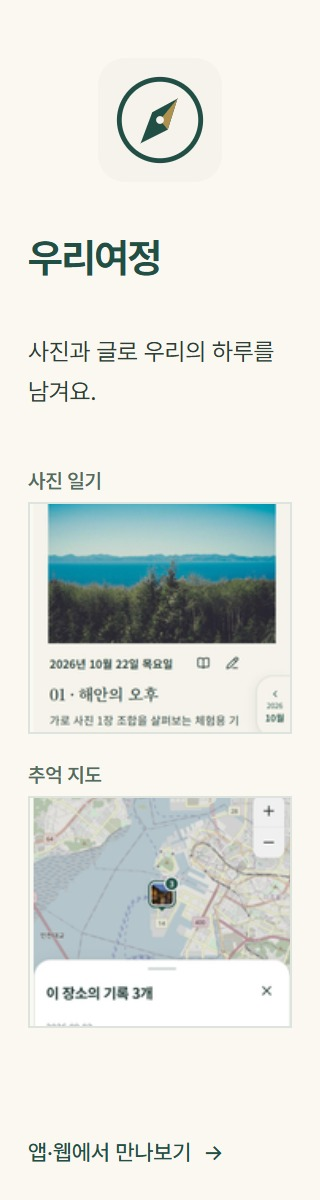
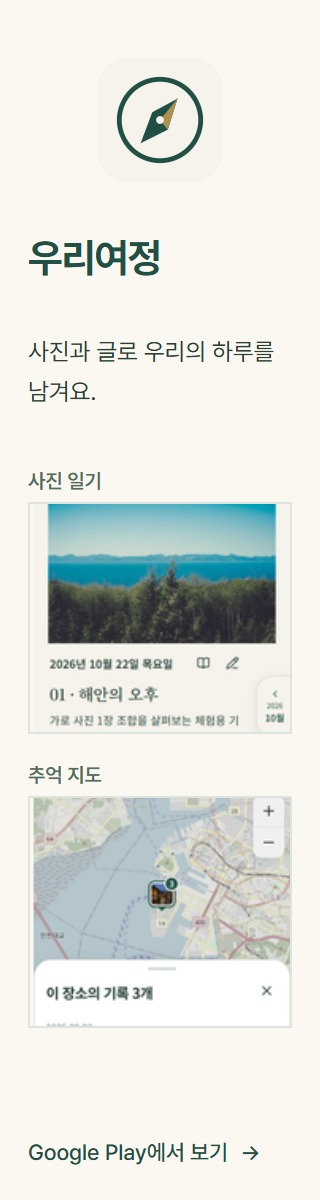
Use store destinations for app promotions and record 0.1.3 submission

Changed region(s): [[0.0938, 0.9558, 0.7188, 0.9867], [0.7812, 0.9558, 0.8125, 0.9867]]

diff --git a/used_market_gemini_cli_full_docs/apps/domestic/web-backend/public/promotions/rotation.js b/used_market_gemini_cli_full_docs/apps/domestic/web-backend/public/promotions/rotation.js
@@ -29,10 +29,10 @@ export function productFor(placement, index, products = HOUSE_PRODUCTS) {
   return products[(((index + (SLOT_OFFSET[placement] ?? 0)) % count) + count) % count];
 }
 
-// Android opens the official Play listing when one exists; other devices open
-// the product's public web service and fall back to Play for app-only products.
-export function destinationFor(product, android) {
-  const url = android ? (product.appUrl || product.webUrl) : (product.webUrl || product.appUrl);
+// App products always open their official Play listing, including on desktop.
+// USED PICK itself is excluded from this site's catalog.
+export function destinationFor(product) {
+  const url = product.appUrl || product.webUrl;
   const host = new URL(url).hostname;
   const label = host === 'play.google.com' ? 'Google Play에서 보기'
     : host === 'marketplace.atlassian.com' ? 'Atlassian Marketplace에서 보기' : '웹사이트에서 보기';
@@ -90,7 +90,6 @@ export function createPromotionSlots(roots) {
     for (const root of slots) root.hidden = true;
     return { setEligible() {} };
   }
-  const android = /Android/iu.test(globalThis.navigator?.userAgent || '');
   const reducedMotion = window.matchMedia('(prefers-reduced-motion: reduce)');
   const desktop = window.matchMedia('(min-width: 861px)');
   const views = slots.map(buildSlot);
@@ -110,8 +109,8 @@ export function createPromotionSlots(roots) {
   };
   const render = view => {
     const product = productFor(view.placement, index);
-    const { url, label } = destinationFor(product, android);
-    const art = format => `/promotions/house/${product.id}-${format}.jpg?v=20261115-label`;
+    const { url, label } = destinationFor(product);
+    const art = format => `/promotions/house/${product.id}-${format}.jpg?v=20261115-play`;
     view.link.href = url;
     view.link.setAttribute('aria-label', `${product.name} — ${product.message} ${label} (새 창)`);
     if (view.source) view.source.srcset = art('strip');
@@ -123,7 +122,7 @@ export function createPromotionSlots(roots) {
     for (const view of views) {
       view.pause.hidden = reducedMotion.matches;
       view.pause.textContent = userPaused ? '넘기기' : '멈춤';
-      view.pause.setAttribute('aria-label', userPaused ? '자사 광고 자동 넘김 다시 시작' : '자사 광고 자동 넘김 멈춤');
+      view.pause.setAttribute('aria-label', userPaused ? '광고 자동 넘김 다시 시작' : '광고 자동 넘김 멈춤');
       view.pause.setAttribute('aria-pressed', String(userPaused));
     }
   };

diff --git a/used_market_gemini_cli_full_docs/apps/domestic/web-backend/public/changelog.html b/used_market_gemini_cli_full_docs/apps/domestic/web-backend/public/changelog.html
@@ -41,7 +41,7 @@
             <summary>출시한 서비스 둘러보기</summary>
             <figure>
               <a href="/changelog/2026-11-15-service-promotions.png" target="_blank" rel="noopener noreferrer" aria-label="서비스 순환 광고 화면 크게 보기"><img src="/changelog/2026-11-15-service-promotions.png" alt="운영 검색 화면의 우측과 하단에 서로 다른 서비스를 소개하는 배너. 필터와 매물, 페이지 이동은 기존 위치에 표시한다" loading="lazy" decoding="async" width="1440" height="1000" /></a>
-              <figcaption>외부 광고를 실제 서비스 중인 트레인갤러리·우리여정·K Stock·Jira Obsidian 소개로 바꿨습니다. 기존 우측과 하단 자리에서 서로 다른 제품을 차분하게 넘겨 보여 줍니다. 마우스를 올리거나 키보드로 선택하면 멈추며, ‘멈춤’ 버튼과 기기의 동작 줄이기 설정도 지원합니다. Android에서는 앱이 있는 제품의 Google Play로, 일반 웹에서는 해당 웹사이트로 이동합니다.</figcaption>
+              <figcaption>외부 광고를 실제 서비스 중인 트레인갤러리·우리여정·K Stock·Jira Obsidian 소개로 바꿨습니다. 기존 우측과 하단 자리에서 서로 다른 제품을 차분하게 넘겨 보여 줍니다. 마우스를 올리거나 키보드로 선택하면 멈추며, ‘멈춤’ 버튼과 기기의 동작 줄이기 설정도 지원합니다. 트레인갤러리·우리여정은 기기에 관계없이 Google Play로, K Stock은 웹사이트로, Jira Obsidian은 Atlassian Marketplace로 이동합니다.</figcaption>
             </figure>
           </details>
         </section>

diff --git a/used_market_gemini_cli_full_docs/apps/domestic/web-backend/public/price-analysis.html b/used_market_gemini_cli_full_docs/apps/domestic/web-backend/public/price-analysis.html
@@ -8,8 +8,8 @@
   <link rel="icon" href="/assets/mark.svg" type="image/svg+xml">
   <link rel="stylesheet" href="/styles.css?v=pc-tools-v1"><link rel="stylesheet" href="/pc-tools.css?v=price-clarity-v1"><link rel="stylesheet" href="/ui-concept-a.css?v=aligned-shell-v1">
   <link rel="stylesheet" href="/pc-workspace.css?v=price-axis-right-v1">
-  <link rel="stylesheet" href="/adfit-layout.css?v=house-rotation-v1-live4">
-    <link rel="stylesheet" href="/promotions/train-gallery/banner.css?v=house-rotation-v1-live4">
+  <link rel="stylesheet" href="/adfit-layout.css?v=house-rotation-v1-storelinks">
+    <link rel="stylesheet" href="/promotions/train-gallery/banner.css?v=house-rotation-v1-storelinks">
   <link rel="stylesheet" href="/site-header-links.css?v=1">
   <link rel="stylesheet" href="/mobile-tools.css?v=source-toggle-v2">
   <link rel="stylesheet" href="/mobile-model-picker.css?v=tab-picker-v1">
@@ -138,6 +138,6 @@
     <nav class="tools-mobile-pages" aria-label="모바일 주 메뉴"><a href="/">검색</a><a href="/computer-builder.html">컴퓨터 시세</a></nav>
     <nav class="tools-mobile-policy" aria-label="이용 및 정책"><a href="/changelog.html">패치 내역</a><a href="/support.html">후원</a><a href="/contact.html">문의</a><a href="/guide.html">이용 안내</a><a href="/privacy.html">개인정보처리방침</a><a href="/terms.html">이용약관</a></nav>
   </dialog>
-  <script type="module" src="/pc-tools.js?v=house-rotation-v1-live4"></script>
+  <script type="module" src="/pc-tools.js?v=house-rotation-v1-storelinks"></script>
 </body>
 </html>

diff --git a/used_market_gemini_cli_full_docs/apps/domestic/web-backend/public/computer-builder.html b/used_market_gemini_cli_full_docs/apps/domestic/web-backend/public/computer-builder.html
@@ -8,8 +8,8 @@
   <link rel="icon" href="/assets/mark.svg" type="image/svg+xml">
   <link rel="stylesheet" href="/styles.css?v=pc-tools-v1"><link rel="stylesheet" href="/pc-tools.css?v=parts-ux-v6"><link rel="stylesheet" href="/ui-concept-a.css?v=aligned-shell-v1">
   <link rel="stylesheet" href="/builder-toolbar.css?v=price-clarity-v1">
-  <link rel="stylesheet" href="/adfit-layout.css?v=house-rotation-v1-live4">
-    <link rel="stylesheet" href="/promotions/train-gallery/banner.css?v=house-rotation-v1-live4">
+  <link rel="stylesheet" href="/adfit-layout.css?v=house-rotation-v1-storelinks">
+    <link rel="stylesheet" href="/promotions/train-gallery/banner.css?v=house-rotation-v1-storelinks">
   <link rel="stylesheet" href="/site-header-links.css?v=1">
   <link rel="stylesheet" href="/mobile-tools.css?v=sold-joongna-v1">
   <link rel="stylesheet" href="/mobile-model-picker.css?v=tab-picker-v1">
@@ -97,6 +97,6 @@
     <nav class="tools-mobile-pages" aria-label="모바일 주 메뉴"><a href="/">매물 찾기</a><a href="/computer-builder.html">컴퓨터 시세</a></nav>
     <nav class="tools-mobile-policy" aria-label="이용 및 정책"><a href="/changelog.html">패치 내역</a><a href="/support.html">후원</a><a href="/contact.html">문의</a><a href="/guide.html">이용 안내</a><a href="/privacy.html">개인정보처리방침</a><a href="/terms.html">이용약관</a></nav>
   </dialog>
-  <script type="module" src="/pc-tools.js?v=house-rotation-v1-live4"></script>
+  <script type="module" src="/pc-tools.js?v=house-rotation-v1-storelinks"></script>
 </body>
 </html>

diff --git a/used_market_gemini_cli_full_docs/apps/domestic/web-backend/public/pc-tools.js b/used_market_gemini_cli_full_docs/apps/domestic/web-backend/public/pc-tools.js
@@ -1,7 +1,7 @@
 import { SERIES, idOf, nameOf, naturalCompare, money, metricValue, soldMeanValue, metricPresentation, listedPriceRange, statsUnavailable, priceRecordIssue, analysisSelectionUrl, groupProducts, scopedStats, sourceStats, priceDateRange, shiftDate, modelPageItems, buildTotals, compactBuild, compatibility, validateBuild, dailySeries, percentChange, buildAnalysisSeries } from './pc-tools-core.mjs?v=shared-price-v2';
 import { readJson, createPriceStore } from './pc-tools-data.mjs?v=picker-fast-v3';
 import { drawMarketChart as drawChart } from './pc-market-chart.mjs?v=compact-chart-v2';
-import { createPromotionSlots } from './promotions/rotation.js?v=house-rotation-v1-live4';
+import { createPromotionSlots } from './promotions/rotation.js?v=house-rotation-v1-storelinks';
 import { toolBrand, toolFilterSchema, toolFacetValues, toolFacetLabel, filterToolProducts, visibleSelection, toolScopeNote } from './pc-tools-catalog.mjs?v=parts-ux-v4';
 import { priceWindowUrl } from './price-window.mjs?v=compact-chart-v2';
 

diff --git a/used_market_gemini_cli_full_docs/apps/domestic/web-backend/public/index.html b/used_market_gemini_cli_full_docs/apps/domestic/web-backend/public/index.html
@@ -35,8 +35,8 @@
     <link rel="stylesheet" href="/pc-tools.css?v=6" />
     <link rel="stylesheet" href="/ui-concept-a.css?v=adfit-all-v3" />
     <link rel="stylesheet" href="/search-controls.css?v=model-label-v1" />
-    <link rel="stylesheet" href="/adfit-layout.css?v=house-rotation-v1-live4">
-    <link rel="stylesheet" href="/promotions/train-gallery/banner.css?v=house-rotation-v1-live4">
+    <link rel="stylesheet" href="/adfit-layout.css?v=house-rotation-v1-storelinks">
+    <link rel="stylesheet" href="/promotions/train-gallery/banner.css?v=house-rotation-v1-storelinks">
     <link rel="stylesheet" href="/site-header-links.css?v=1">
     <link rel="stylesheet" href="/mobile-search.css?v=listing-note-v1">
     <link rel="stylesheet" href="/listing-workspace.css?v=listing-note-v1">
@@ -245,6 +245,6 @@
       </nav>
     </footer>
 
-    <script type="module" src="/app.js?v=house-rotation-v1-live4"></script>
+    <script type="module" src="/app.js?v=house-rotation-v1-storelinks"></script>
   </body>
 </html>

diff --git a/used_market_gemini_cli_full_docs/apps/domestic/web-backend/public/app.js b/used_market_gemini_cli_full_docs/apps/domestic/web-backend/public/app.js
@@ -1,4 +1,4 @@
-import { createPromotionSlots } from "./promotions/rotation.js?v=house-rotation-v1-live4";
+import { createPromotionSlots } from "./promotions/rotation.js?v=house-rotation-v1-storelinks";
 import { toolQueryMatches } from "./pc-tools-catalog.mjs?v=parts-ux-v4";
 import { readJsonResponse } from "./read-json.mjs?v=lookup-recovery-v1";
 import { createPriceStore } from "./pc-tools-data.mjs?v=domestic-danawa-v1";

diff --git a/used_market_gemini_cli_full_docs/apps/domestic/docs/daily_history/2026-11-15.md b/used_market_gemini_cli_full_docs/apps/domestic/docs/daily_history/2026-11-15.md
@@ -51,3 +51,12 @@
 
 - 최종 사용자 정정에 따라 Virtual MCU를 HOUSE_PRODUCTS에서 제외했다. 전체 운영 카탈로그5개에서 USED PICK 자신을 뺀 Train Gallery·우리여정·K Stock·Jira Obsidian4개만 광고한다. 검토/폐기 프로젝트는 폴백·무작위·슬롯 어느 경로에도 없다. 제품 순서·기능·회전 구조는 유지하고 module/entry 캐시 버전만 갱신했다. 공개 패치 설명의 대상도4개로 고쳤다. 기존 실제 캡처는 Train Gallery/K Stock의 유효한 두 배너이므로 재게시하지 않았다.
 - 후속 게시를 한 번으로 합쳐481 `162b7e3e-080e-420b-b2e8-f963e52faf98`100% 전환을 실제 배포 결과로 확인했다. 바로 전 복구점480 `d3055750-4625-48ca-b005-7b0a3df490f0`. frozen Worker etag·22bindings·runtime·settings·routes/domains·cron 동일. 기존 임시 배포 검사의 과거 작업명 고정만 현재 게시명으로 갱신했다. DB·시세·분류·수집 변경0.
+
+## 최종 전달·심사 접수·광고 목적지 정정 — 운영482
+
+- GitHub `android-v0.1.3`은 최종 native 소스 `2dc3fcf7f5004144f0eca35d947672ccc1af8563`을 가리킨다. [공개 APK](https://github.com/tndud2505-ops/Used_Market_Research/releases/download/android-v0.1.3/used-pick-0.1.3-direct.apk)를 인증 없는 URL에서 다시 내려받아3,865,285바이트와 최종 SHA256 일치를 확인했다. 기존0.1.2 릴리스/자산은 보존했다.
+- Play production release3의0.1.3과 Data safety 변경2개를 승인 범위대로 한 번 전송했다. 광고ID 선언 갱신도 접수 내용에 포함됐다. 자동 검사 종료 후 “변경사항을 검토 중입니다”를 확인했다. 한국 대상·100%·관리형 게시 꺼짐 유지. 승인·공개가 아니다. Play 화면 캡처는 CDP timeout으로 저장되지 않았고 실제 UI 접수 문구와 `mobile/artifacts/0.1.3/play-submission-receipt.json`을 보존했다.
+- 최종 링크 정정이481 배포 뒤 도착해 이미 실행한 배포를 보존하고 후속482만 적용했다. Train Gallery·우리여정은 PC/Android 모두 공식 Google Play, K Stock은 웹, Jira Obsidian은 Marketplace다. USED PICK은 이 사이트 광고에서 제외하므로 자신의 앱/웹 교대 목적지는 노출하지 않는다. 총괄의 갱신된 우리여정 JPEG3개만 복사했고 중앙 원본은 읽기 전용으로 유지했다. CTA·접근성 라벨·캐시 버전·공개 패치 문구를 맞췄다.
+- 최종482 `1b6d7c11-d6d5-46ca-b6bb-6aae7c42cabc`100% 실제 배포 및 공개 두 도메인 검증 통과. Worker etag·22bindings·runtime·settings·routes/domains·cron 동일. 복구점481. 실제 PC1440/Android UA390에서 운영 module의4개 제품/모든 목적지와 각2개 슬롯의 순환·서로 다른 제품·우리여정 Play href/라벨을 확인했다. 기존 현재 공개 캡처는 유지한 Train Gallery/K Stock 모습이므로 여전히 유효하다. 추가 테스트·하네스·스캐너·감시·승인 단계0, 기존 destination 계약의 오래된 PC 웹 링크 기대만 수정했다.
+- AdMob 정확한 USED PICK 앱에서 업데이트 확인을 다시 요청했으나 app-ads.txt 계정 불일치 안내가 남았다. 콘솔이 요구하는 publisher 행은 공개 파일과 같다. 이를 크롤러 지연이라고 확정하거나 승인 완료라고 쓰지 않는다. 동의 메시지 게시·앱 연결/테스트 성공·Play 심사 접수와 AdMob 앱 인증 미완료를 구분한다. 최종 콘솔 캡처 `mobile/artifacts/0.1.3/admob-verification-status.jpg` 보존.
+- 종료: 소유한 AVD 이름 UsedPickTwaApi36을 확인한 뒤 emulator-5620만 정상 종료하고 CDP9313 forward를 제거했다. launcher20880/QEMU54800과 리슨5620·5621·9313이 없음을 확인했다. 다른 세션의5580·5590·5600과 기본ADB5037은 종료하지 않았고 ADB5048도 임의로 내리지 않았다. 기기 프로필·산출물·로그는 재검증을 위해 보존했다.

diff --git a/used_market_gemini_cli_full_docs/apps/domestic/docs/android-release.md b/used_market_gemini_cli_full_docs/apps/domestic/docs/android-release.md
@@ -6,10 +6,10 @@
 
 - Chrome TWA를 유지하며 성공한 시세 창 닫기 3회마다 전면 광고 표시 기회를 판단한다. 실제 표시 간 최소10분이며, 동의 또는 준비된 광고가 없으면 즉시 목록 이용을 계속한다. 일반 웹에는 다른 출시 서비스 홍보만 표시한다.
 - Next-Gen Mobile Ads1.6.0 / UMP4.0.0을 통합했다. `mobile/native/`의 원본을 생성 스크립트가 복사하므로 Bubblewrap 재생성 후에도 보존한다. 비공개 MessagePort의 정확한 출처·nonce/순번, 같은 전경 task, UMP 허용 여부, 일회성 광고 소유권을 확인한다. 외부 호출용 광고 URL은 없다.
[2 lines of base64/hex data omitted]
 - 격리 API36 AVD에서 동일 코드의 debug 전용 공식 테스트 광고가 세 번째 닫기에 표시되고, 닫으면 원래 목록으로 돌아오는 것을 확인했다. 이후10분 이내 추가3회 닫기에는 광고가 없었다. 테스트 APK는 배포하지 않는다. 최종 release APK도 기존 앱 위 설치 및 TWA 실행을 확인했다. Play 설치와 실제 유료 광고 송출 검증은 구분한다.
 - USED PICK만 대상으로 한 EEA·영국·스위스 UMP 메시지는 사용자 승인 후 게시했다. app-ads.txt는 운영에 게시돼 있으나 AdMob의 앱 확인은 아직 완료되지 않았다. 코드 연결·동의 메시지 게시를 AdMob 승인으로 표현하지 않는다.
-- 사용자가 0.1.3 AAB 업로드·AdMob 데이터 신고 갱신·한국 프로덕션 심사 제출을 승인했다. 실제 제출 결과는 아래 이력과 [11월15일 작업 기록](daily_history/2026-11-15.md)에 기록한다.
+- 사용자 승인 후 같은 한국 프로덕션 트랙의 release3에 0.1.3 AAB와 데이터 보안 변경2개를 전송했다. 광고 ID 선언도 갱신했다. 사전 자동 검사 종료 후 **“변경사항을 검토 중입니다”**를 확인했다. 관리형 게시 꺼짐·한국 대상·100%를 유지했다. Play 승인/공개와 실제 유료 광고 송출은 아직 확인되지 않았다. [Play 심사 상태](https://play.google.com/console/u/1/developers/5880950647940851885/app/4975596290357962377/publishing), [11월15일 작업 기록](daily_history/2026-11-15.md).
 
 ## Play 업데이트0.1.2 심사 제출 완료 (2026-11-14)
 

diff --git a/used_market_gemini_cli_full_docs/apps/domestic/docs/daily_history/README.md b/used_market_gemini_cli_full_docs/apps/domestic/docs/daily_history/README.md
@@ -1,6 +1,6 @@
 # 변경 기록
 
-- [2026-11-15 — 웹 자사 제품 순환 광고474배포, AdMob 앱 인증 및 Android 광고 연결](2026-11-15.md)
+- [2026-11-15 — 웹 운영 서비스4개·앱 링크482배포, Android0.1.3 AdMob 연결·APK 공개·Play 심사 접수, 동의 메시지 게시·앱 인증 미완료](2026-11-15.md)
 
 사용자에게 보이는 변경은 [패치 내역](../../web-backend/public/changelog.html)에 실제 화면과 짧은 설명으로 기록합니다. 이 폴더에는 변경 이유, 구현 범위, 검증과 실제 배포 상태를 남깁니다. 날짜는 한국 시간을 사용합니다.
 
